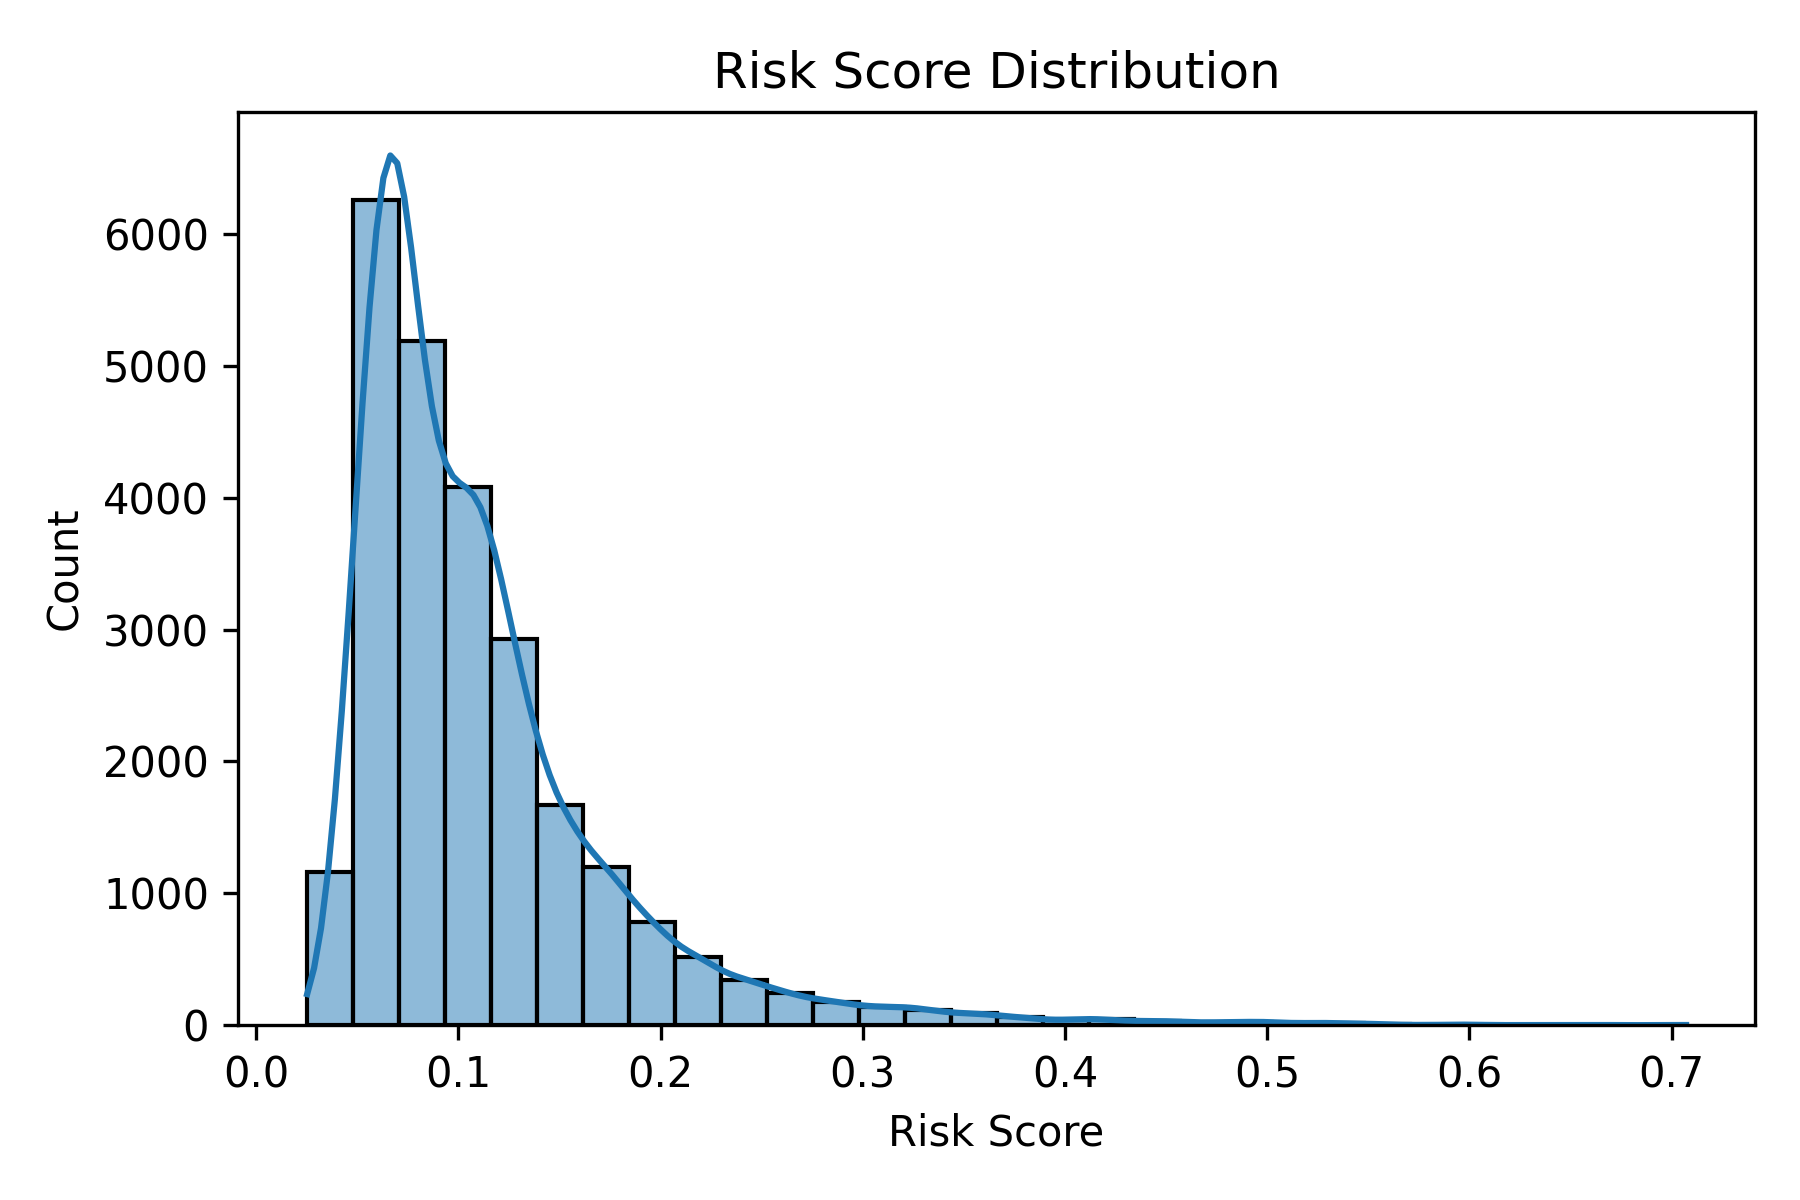
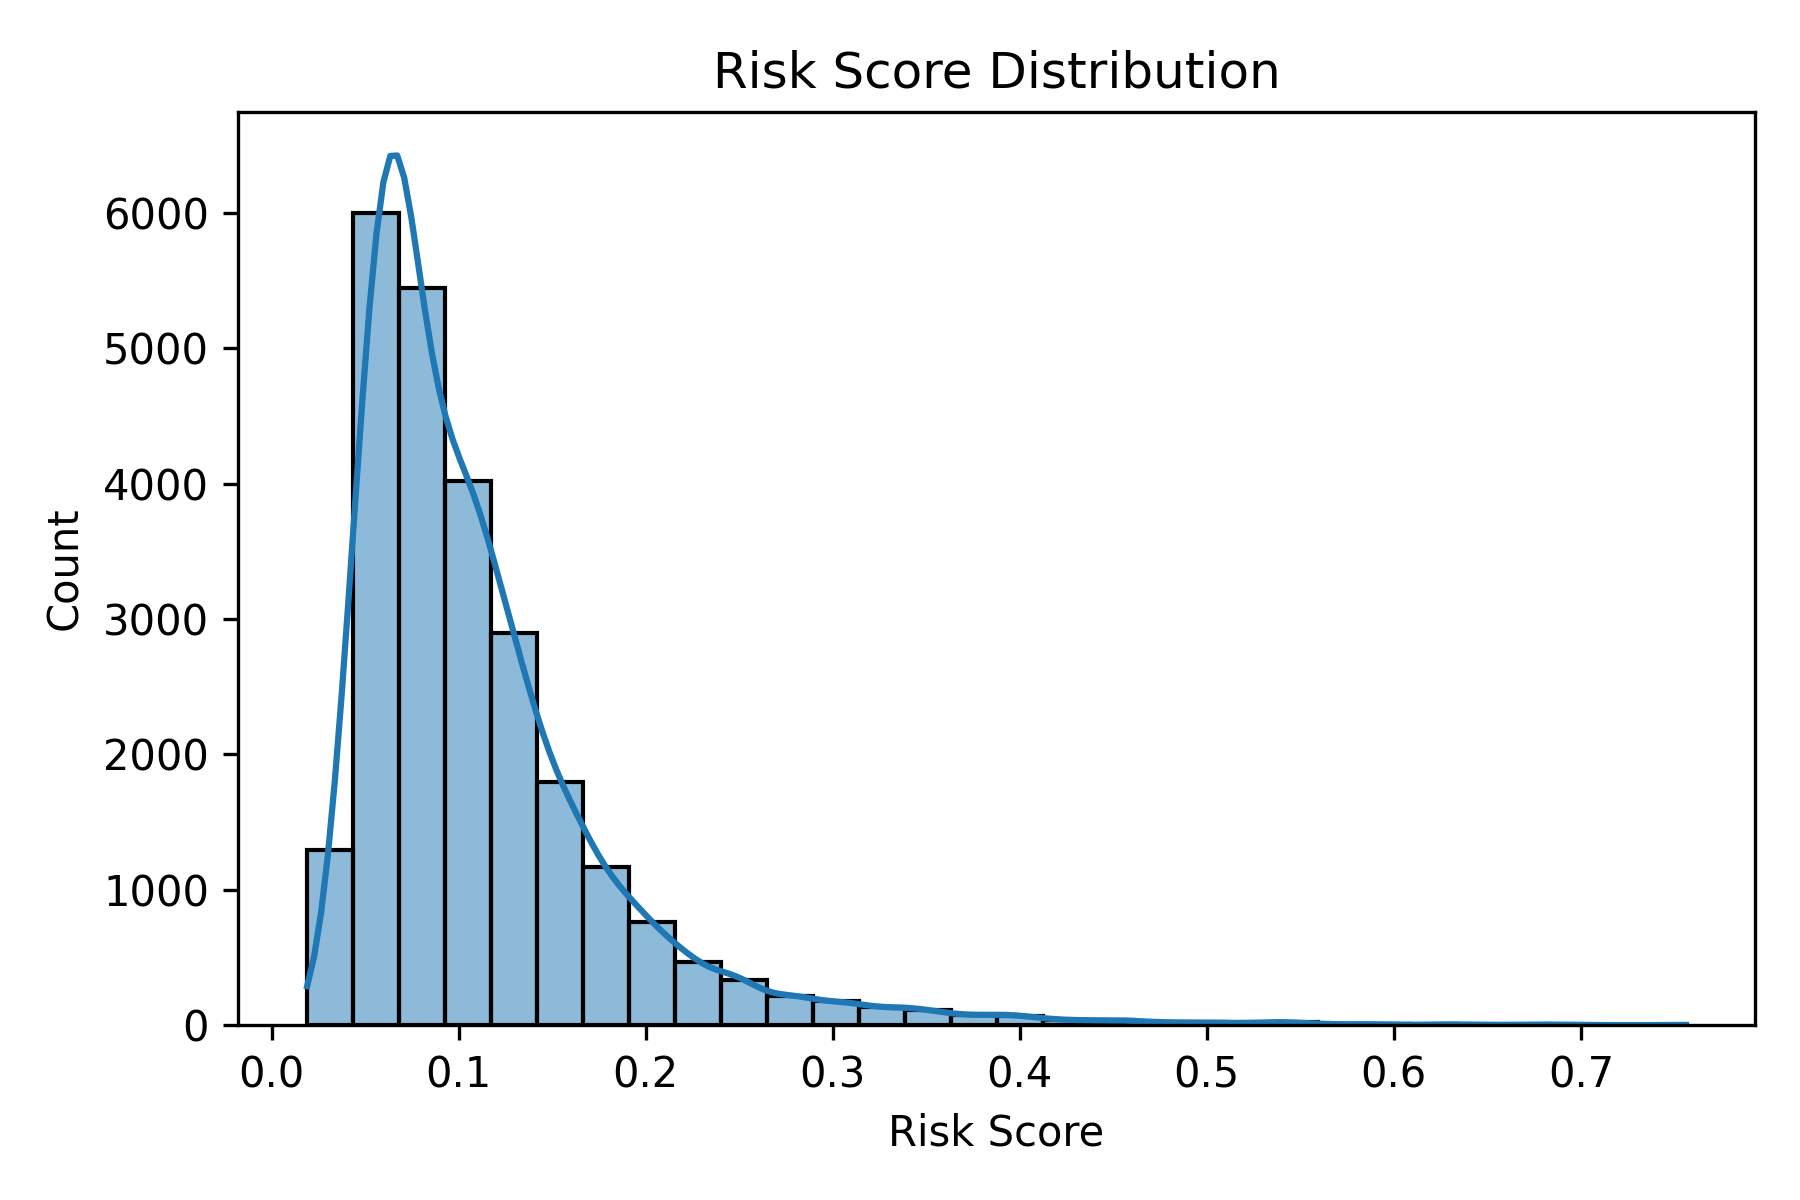
chore: regenerate all outputs and figures for retrained LightGBM model (#16)
* fix: add error handling to predict risk and batch scoring in Streamlit app

- Wrap score_patient_with_optional_api call in try-except to catch and display errors
- Wrap score_batch_with_optional_api call in try-except for batch uploads
- Display user-friendly error messages when prediction/scoring fails
- Log full error details for debugging

* fix: reset form widget values when demo preset changes

- Add key parameters to all form inputs based on preset name
- Forces Streamlit to re-render widgets with correct preset defaults
- Fixes issue where preset selection wasn't updating prediction results

* fix: clear prediction results when preset selection changes

- Track the preset used for the last prediction in session_state
- Clear last_prediction and last_batch_result when user switches presets
- Ensures old results don't persist when changing demo scenarios

* fix: retrain model artifacts for sklearn 1.8.0 compatibility

The preprocessor.joblib saved under sklearn 1.6.1 used _RemainderColsList
which no longer exists in sklearn 1.8.0, causing a silent load failure and
fallback to a 250-row demo model that returned identical predictions (52.9%)
for all inputs regardless of risk level.

Changes:
- Retrained best_model.joblib and preprocessor.joblib with sklearn 1.8.0
  (best model: LightGBM, ROC-AUC 0.689)
- Increased FALLBACK_TRAIN_ROWS from 250 to 5000 as a safety net
- High-risk preset now predicts ~26% (High, 96th pct) vs
  low-risk ~6.4% (Low, 24th pct)
[…]

diff --git a/outputs/generate_figures_and_tables.py b/outputs/generate_figures_and_tables.py
@@ -1,4 +1,5 @@
 import joblib
+import numpy as np  # noqa: F401  used via toarray() result handling
 
 import matplotlib.pyplot as plt
 import pandas as pd
@@ -78,18 +79,29 @@ brier = brier_score_loss(scored["target"], scored["risk_score"])
 with open("outputs/tables/brier_score.txt", "w") as f:
     f.write(f"Brier score: {brier:.4f}\n")
 
-# SHAP feature importance (XGBoost)
+# SHAP feature importance
 model = joblib.load("models/best_model.joblib")
 preprocessor = joblib.load("models/preprocessor.joblib")
 
-# Use a sample for SHAP to save time
+# Use a sample for SHAP to save time; convert sparse to dense for compatibility
 X = scored.drop(columns=["target", "risk_score"])
 X_proc = preprocessor.transform(X)
-explainer = shap.Explainer(model)
-shap_values = explainer(X_proc[:200])
-plt.figure(figsize=(8, 6))
-shap.summary_plot(shap_values, X_proc[:200], show=False)
-plt.tight_layout()
-plt.savefig("outputs/figures/shap_summary.png", dpi=300)
+if hasattr(X_proc, "toarray"):
+    X_proc = X_proc.toarray()
+feature_names = preprocessor.get_feature_names_out()
+X_proc_sample = X_proc[:200]
+
+try:
+    explainer = shap.Explainer(model)
+    shap_values = explainer(X_proc_sample)
+    plt.figure(figsize=(8, 6))
+    shap.summary_plot(
+        shap_values, X_proc_sample, feature_names=feature_names, show=False
+    )
+    plt.tight_layout()
+    plt.savefig("outputs/figures/shap_summary.png", dpi=300)
+    plt.close()
+except Exception as e:
+    print(f"SHAP summary skipped: {e}")
 
 print("All figures and tables generated in outputs/figures and outputs/tables.")

diff --git a/README.md b/README.md
@@ -106,8 +106,9 @@ This makes the demo easier to understand for hospital partners, startup conversa
 
 - ROC-AUC: 0.689 (LightGBM, retrained on scikit-learn 1.8.0)
 - PR-AUC: 0.244
-- Top 20% capture: ~41%
-- Brier score: 0.09
+- Top 20% capture: 41.2%
+- Top 10% capture: 26.1%
+- Brier score: 0.091
 
 These results indicate moderate ranking performance with usable probability calibration for prioritization-oriented workflows. Model artifacts are saved as `models/best_model.joblib` and `models/preprocessor.joblib` and are compatible with scikit-learn 1.8.0 and Python 3.10+.
 
